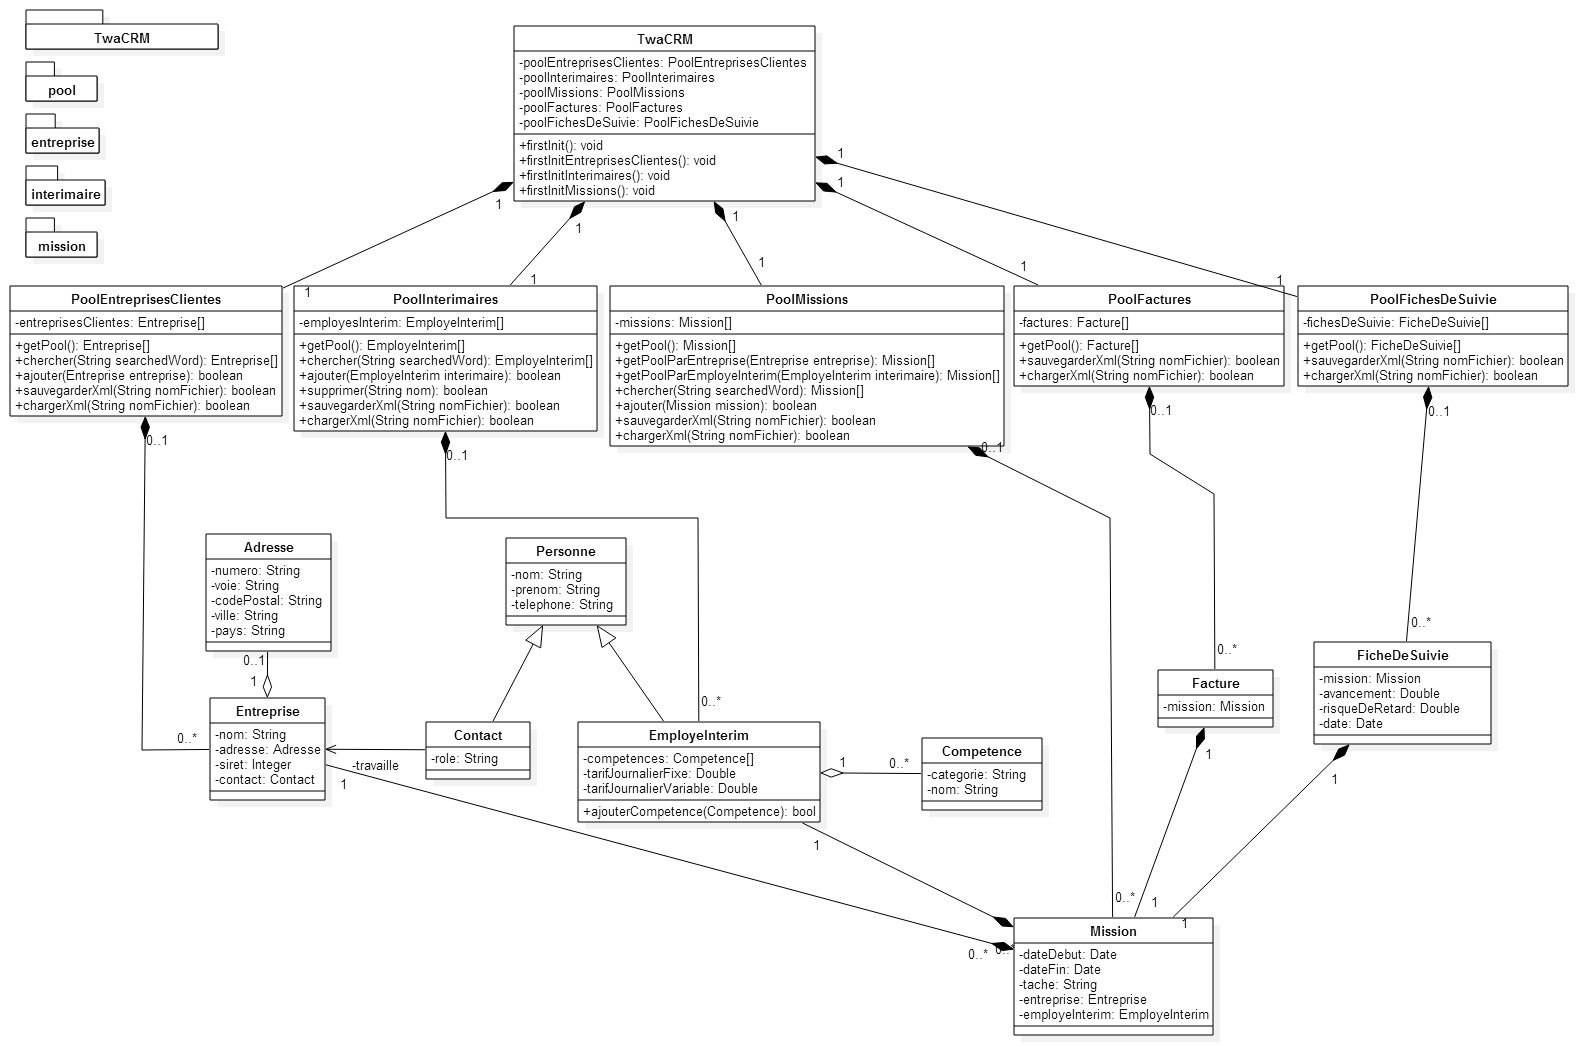
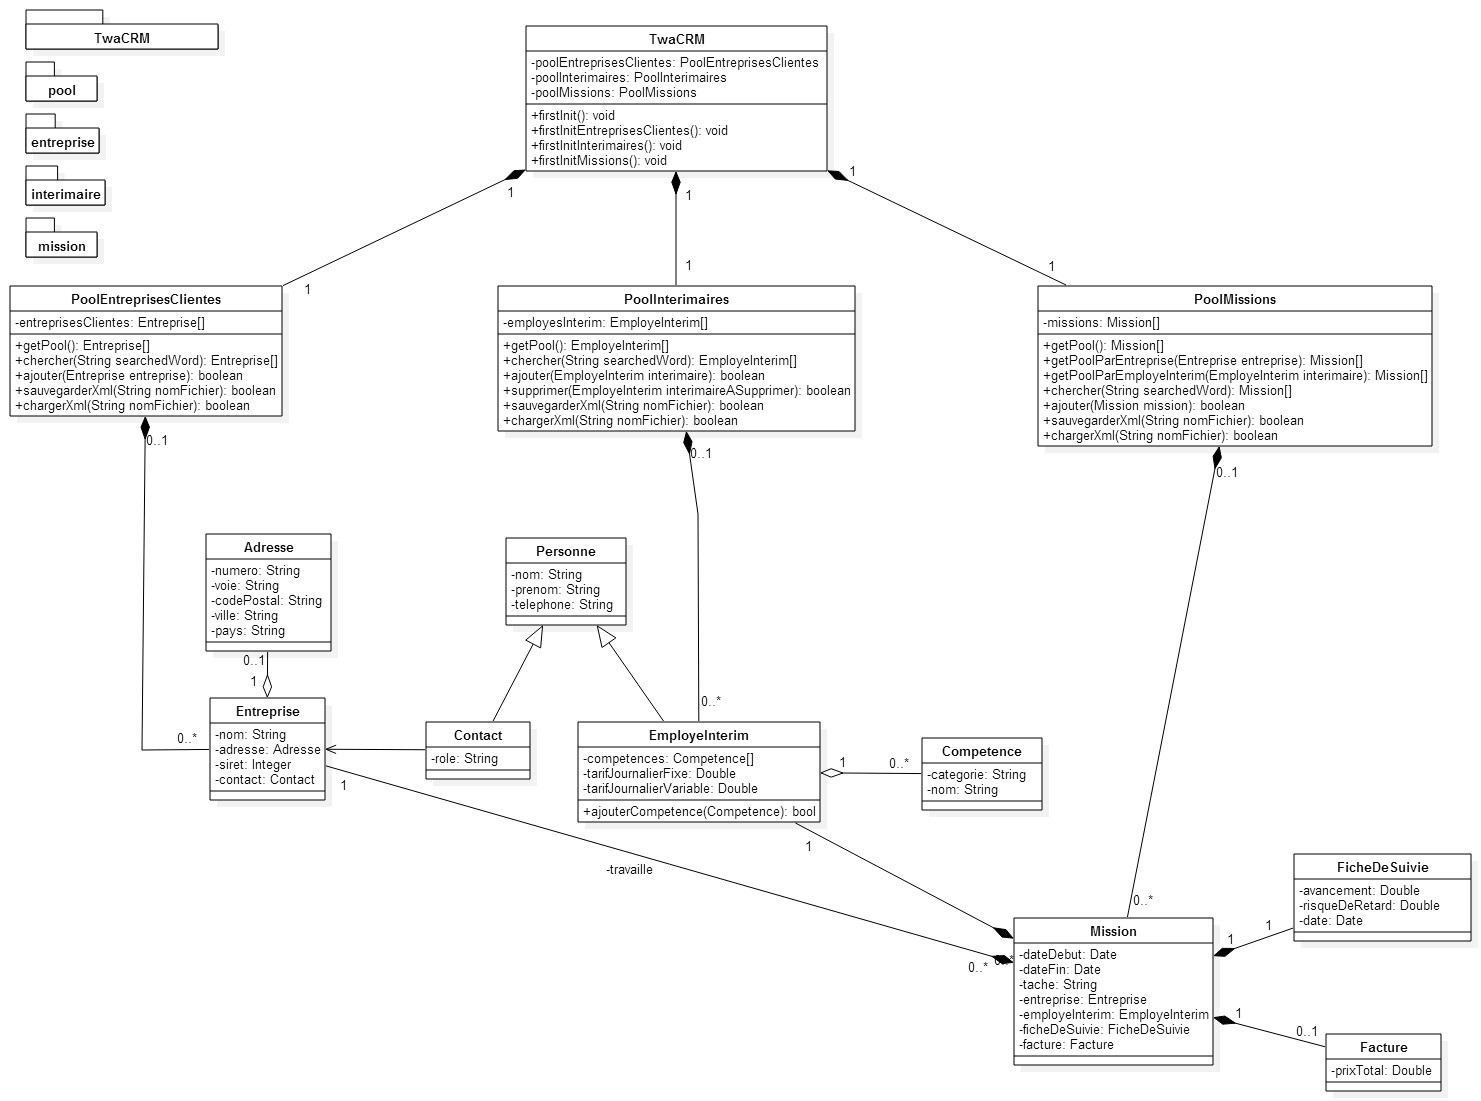
Fonctionnel.

diff --git a/TwaCRM/TwaCRM/mission/Mission.cs b/TwaCRM/TwaCRM/mission/Mission.cs
@@ -26,7 +26,7 @@ namespace TwaCRM.mission{
 		/**
 		 * Constructeur
 		 */
-		public Mission(DateTime dateDebut, DateTime dateFin, String tache, Entreprise entreprise, EmployeInterim interimaire)
+		public Mission(DateTime dateDebut, DateTime dateFin, String tache, Entreprise entreprise, EmployeInterim interimaire, FicheDeSuivie ficheDeSuivie, Facture facture)
 		{
             _uniqueId = _counter;
             _counter++;
@@ -36,6 +36,8 @@ namespace TwaCRM.mission{
 		    Tache = tache;
 		    Entreprise = entreprise;
 		    EmployeInterim = interimaire;
+		    FicheDeSuivie = ficheDeSuivie;
+		    Facture = facture;
 		}
 
         private static int _counter = 0;
@@ -100,6 +102,26 @@ namespace TwaCRM.mission{
         {
             get { return _employeInterim; }
             set { _employeInterim = value; }
+        }
+
+        /**
+         * Contient la facture de cette mission
+         */
+        private Facture _facture;
+        public Facture Facture
+        {
+            get { return _facture; }
+            set { _facture = value; }
+        }
+
+        /**
+         * Contient la fiche de suivie de cette mission
+         */
+        private FicheDeSuivie _ficheDeSuivie;
+        public FicheDeSuivie FicheDeSuivie
+        {
+            get { return _ficheDeSuivie; }
+            set { _ficheDeSuivie = value; }
         }
 
         /**
